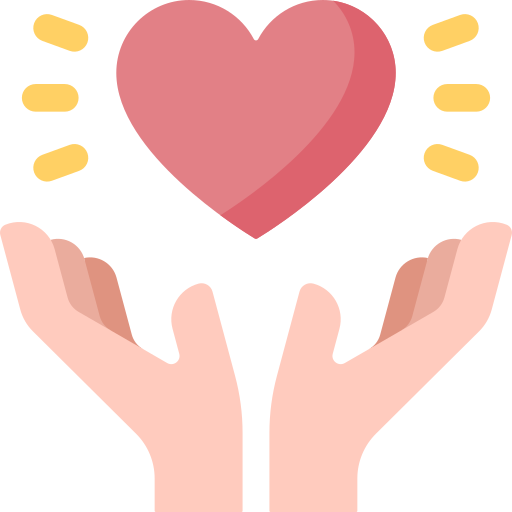
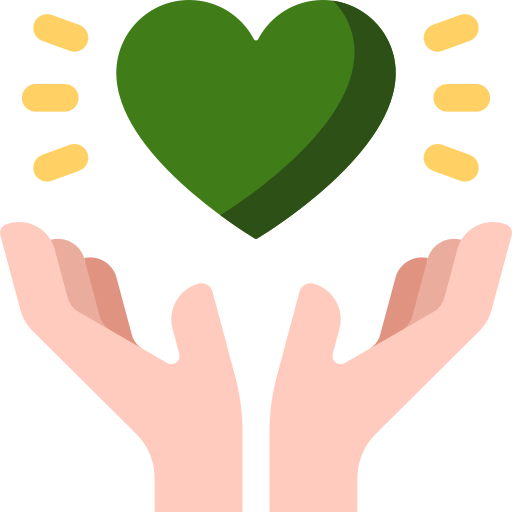
revamp the colour pallete

Changed region(s): [[0.2188, 0.0, 0.7812, 0.4688]]

diff --git a/client/src/pages/ProjectPage.tsx b/client/src/pages/ProjectPage.tsx
@@ -131,7 +131,7 @@ const ProjectPage = () => {
 
     if (!project) {
         return (
-            <div className="min-h-screen grid place-items-center">
+            <div className="min-h-screen bg-background grid place-items-center">
                 <h2 className="text-2xl font-bold text-foreground">
                     Project Not Found
                 </h2>
@@ -155,7 +155,7 @@ const ProjectPage = () => {
             : 0;
 
     return (
-        <div className="min-h-screen">
+        <div className="min-h-screen bg-background">
             <Header />
             <main className="max-w-7xl mx-auto px-4 sm:px-6 lg:px-8 py-24">
                 <div className="lg:col-span-2 relative rounded-xl overflow-hidden group mb-10">
@@ -227,7 +227,7 @@ const ProjectPage = () => {
                                     </div>
                                 ))}
                             </div>
-                            <div className="flex justify-between mt-4 font-semibold text-foreground">
+                            <div className="flex justify-between mt-4 pt-3 border-t border-border font-semibold text-foreground">
                                 <span>Total Project Cost</span>
                                 <span className="text-primary">
                                     {formatCurrency(project.goal_amount)}
@@ -241,18 +241,24 @@ const ProjectPage = () => {
                         >
                             <div className="space-y-4">
                                 <ContactItem
-                                    icon={<Users className="h-4 w-4" />}
+                                    icon={
+                                        <Users className="h-4 w-4 text-primary" />
+                                    }
                                     label={project.contact_person_name}
                                     subLabel="Project Lead"
                                 />
                                 <ContactItem
-                                    icon={<Mail className="h-4 w-4" />}
+                                    icon={
+                                        <Mail className="h-4 w-4 text-primary" />
+                                    }
                                     label={project.contact_person_email}
                                     subLabel="Email Address"
                                     link={`mailto:${project.contact_person_email}`}
                                 />
                                 <ContactItem
-                                    icon={<Phone className="h-4 w-4" />}
+                                    icon={
+                                        <Phone className="h-4 w-4 text-primary" />
+                                    }
                                     label={`+91 ${project.contact_person_phone}`}
                                     subLabel="Phone Number"
                                     link={`tel:${project.contact_person_phone}`}
@@ -262,10 +268,10 @@ const ProjectPage = () => {
                     </div>
 
                     <div>
-                        <section className="flex flex-col p-6 rounded-xl border border-border bg-card">
+                        <section className="flex flex-col p-6 rounded-xl border border-border bg-card shadow-sm">
                             <div className="flex items-center mb-6">
-                                <div className="p-3 rounded-full bg-secondary">
-                                    <HandHelping className="h-6 w-6 text-foreground" />
+                                <div className="p-3 rounded-full bg-secondary border border-border">
+                                    <HandHelping className="h-6 w-6 text-primary" />
                                 </div>
                                 <h2 className="ml-3 text-2xl font-bold text-foreground">
                                     Support This Project
@@ -274,7 +280,7 @@ const ProjectPage = () => {
 
                             <div className="flex flex-col gap-6">
                                 {/* Stats */}
-                                <div className="p-4 rounded-lg border border-border bg-background ">
+                                <div className="p-4 rounded-lg border border-border bg-muted">
                                     <div className="grid grid-cols-2 gap-4">
                                         <div>
                                             <p className="text-sm text-muted-foreground flex items-center gap-2">
@@ -309,14 +315,18 @@ const ProjectPage = () => {
                                         {fixedAmounts.map((amt) => (
                                             <button
                                                 key={amt}
-                                                className="flex items-center justify-center gap-2 p-3 rounded-lg border border-border bg-secondary hover:bg-primary/20 transition cursor-pointer"
+                                                className={`flex items-center justify-center gap-2 p-3 rounded-lg border transition cursor-pointer ${
+                                                    amount === String(amt)
+                                                        ? "border-primary bg-secondary text-primary"
+                                                        : "border-border bg-card hover:bg-secondary hover:border-primary text-foreground"
+                                                }`}
                                                 type="button"
                                                 onClick={() =>
                                                     setAmount(String(amt))
                                                 }
                                             >
                                                 <Heart className="h-4 w-4 text-primary" />
-                                                <span className="font-semibold text-foreground">
+                                                <span className="font-semibold">
                                                     {formatCurrency(amt)}
                                                 </span>
                                             </button>
@@ -341,18 +351,19 @@ const ProjectPage = () => {
                                         }
                                         placeholder="Enter amount"
                                         min="100"
-                                        className="w-full px-4 py-3 rounded-lg border border-input bg-card text-foreground placeholder:text-muted-foreground/80"
+                                        className="w-full px-4 py-3 rounded-lg border border-border bg-input text-foreground placeholder:text-muted-foreground focus:outline-none focus:ring-2 focus:ring-primary focus:border-transparent"
                                     />
                                     <button
                                         onClick={handleDonate}
-                                        className="w-full mt-4 py-3 rounded-lg bg-primary text-primary-foreground font-semibold hover:opacity-90 transition disabled:opacity-60 cursor-pointer"
+                                        className="w-full mt-4 py-3 rounded-lg bg-primary text-primary-foreground font-semibold hover:opacity-90 transition disabled:opacity-50 disabled:cursor-not-allowed cursor-pointer"
                                         type="button"
                                         disabled={
                                             !amount ||
                                             Number.isNaN(
                                                 parseInt(amount, 10)
                                             ) ||
-                                            parseInt(amount, 10) < 100
+                                            parseInt(amount, 10) < 100 ||
+                                            stripeLoading
                                         }
                                     >
                                         {amount &&
@@ -379,11 +390,11 @@ const ProjectPage = () => {
                                         </span>
                                     </div>
                                     <div
-                                        className="h-3 w-full rounded-full bg-muted overflow-hidden"
+                                        className="h-3 w-full rounded-full bg-muted border border-border overflow-hidden"
                                         aria-hidden
                                     >
                                         <div
-                                            className="h-3 rounded-full bg-primary"
+                                            className="h-full rounded-full bg-primary transition-all duration-500"
                                             style={{ width: `${progress}%` }}
                                             role="progressbar"
                                             aria-valuenow={progress}
@@ -413,12 +424,12 @@ const Section = ({
 }) => (
     <section className="space-y-4">
         <div className="flex items-center gap-3">
-            <div className="p-2 rounded-full bg-secondary text-foreground">
+            <div className="p-2 rounded-full bg-secondary border border-border">
                 {icon}
             </div>
             <h2 className="text-xl font-bold text-foreground">{title}</h2>
         </div>
-        <div className="p-6 rounded-xl border border-border bg-card">
+        <div className="p-6 rounded-xl border border-border bg-card shadow-sm">
             {children}
         </div>
     </section>
@@ -436,14 +447,14 @@ const ContactItem = ({
     link?: string;
 }) => (
     <div className="flex items-start gap-3">
-        <div className="p-2 rounded-full bg-secondary text-foreground">
+        <div className="p-2 rounded-full bg-secondary border border-border">
             {icon}
         </div>
         <div>
             {link ? (
                 <a
                     href={link}
-                    className="font-medium text-foreground hover:opacity-80 transition"
+                    className="font-medium text-foreground hover:text-primary transition"
                 >
                     {label}
                 </a>

diff --git a/client/src/pages/Success.tsx b/client/src/pages/Success.tsx
@@ -40,12 +40,12 @@ const PaymentSuccess = () => {
                 <div className="flex justify-center gap-4">
                     <Button
                         onClick={() => navigate("/")}
-                        className="bg-primary hover:bg-primary/80 text-white p-6 rounded-sm text-lg font-semibold shadow-md cursor-pointer"
+                        className="bg-primary hover:bg-primary/80 text-white p-5 lg:p-6 rounded-sm text-md lg:text-lg font-semibold shadow-md cursor-pointer"
                     >
                         Back to Home
                     </Button>
                     <Button
-                        className="cursor-pointer p-6 rounded-sm text-lg font-semibold border shadow-md"
+                        className="cursor-pointer lg:p-6 p-5 rounded-sm text-md lg:text-lg font-semibold border shadow-md"
                         variant="outline"
                         onClick={() => navigate("/needs-your-support")}
                     >

diff --git a/client/src/App.css b/client/src/App.css
@@ -4,22 +4,22 @@
 
 :root {
     --radius: 0.625rem;
-    --background: #ffeef2; /* Your custom background color */
-    --foreground: #231f20;
-    --card: #fff3f0;
-    --card-foreground: #231f20;
-    --primary: #fb6376; /* Example pink primary */
+    --background: #faf8f3;
+    --foreground: #1a1a1a;
+    --card: #f4f1e8;
+    --card-foreground: #1a1a1a;
+    --primary: #2d5016;
     --primary-foreground: #ffffff;
-    --secondary: #fce7f3;
-    --secondary-foreground: #231f20;
-    --muted: #f9fafb;
+    --secondary: #dde7c7;
+    --secondary-foreground: #ffffff;
+    --muted: #f8f6f0;
     --muted-foreground: #6b7280;
-    --accent: #fce7f3;
-    --accent-foreground: #231f20;
-    --destructive: #ef4444;
-    --border: #e5e7eb;
-    --input: #e5e7eb;
-    --ring: #d946ef;
+    --accent: #e8f5e8;
+    --accent-foreground: #1a1a1a;
+    --destructive: #dc2626;
+    --border: #e2ddd4;
+    --input: #e2ddd4;
+    --ring: #2d5016;
 }
 
 @theme inline {

diff --git a/client/src/components/Hero.tsx b/client/src/components/Hero.tsx
@@ -9,7 +9,7 @@ const Hero = () => {
         <section className="py-30 xl:py-50 flex flex-col items-center justify-center px-10">
             <div className="grid xl:grid-cols-2 gap-12 items-center max-w-7xl">
                 <div className="space-y-3">
-                    <div className="bg-card border border-primary text-sm md:text-md font-sm w-fit xl:px-4 px-2 py-1 rounded-xl">
+                    <div className="bg-card border border-primary text-xs md:text-md font-sm w-fit xl:px-4 px-2 py-1 rounded-xl">
                         🇮🇳 Empowering Every Corner
                     </div>
 
